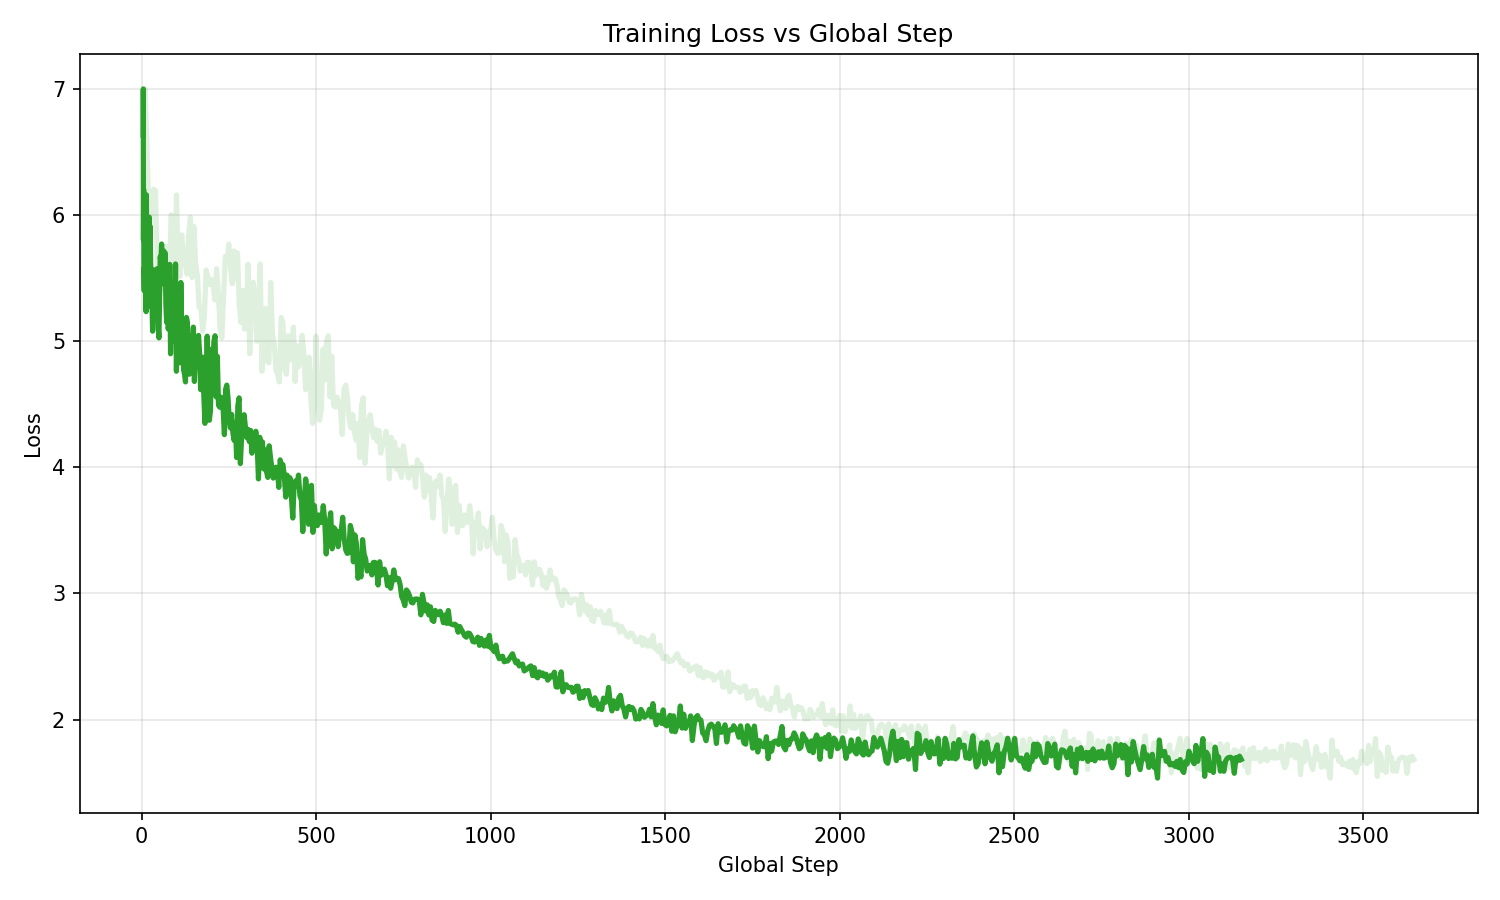
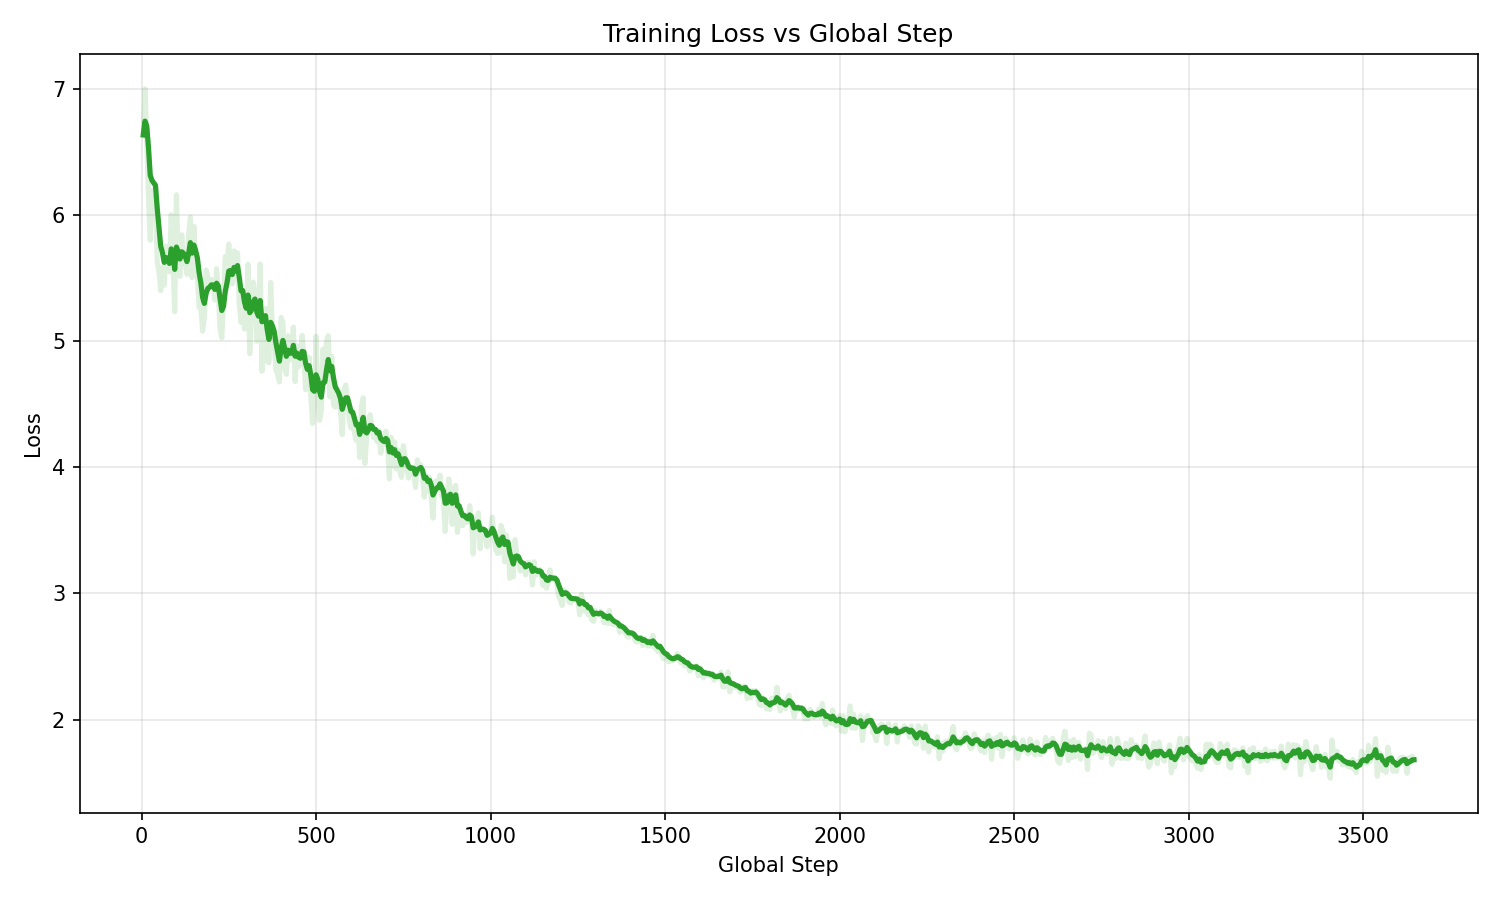
cleaningup more and adding rouge scores to sft eval

diff --git a/experiments/trainers/sft_eval.py b/experiments/trainers/sft_eval.py
@@ -1,6 +1,8 @@
 import torch
 import json
 import matplotlib.pyplot as plt
+from rouge_score import rouge_scorer
+
 
 from experiments.config import SFTConfigBase
 from experiments.datasets import TLDRFilteredDataPPO
@@ -15,48 +17,88 @@ class SFTEval(BaseTrainer):
         self.config = config
         self.device = torch.device("cuda" if torch.cuda.is_available() else "cpu")
 
-        # self.sft = (
-        #     HFModel_SFT.init_from_hf_pretrained(self.config).to(self.device).requires_grad_(False)
-        # )
-        # self.sft.set_from_local_state_dict(self.config.sft_model_path)
-        # self.gpt = (
-        #     HFModel_SFT.init_from_hf_pretrained(self.config).to(self.device).requires_grad_(False)
-        # )
+        self.sft = (
+            HFModel_SFT.init_from_hf_pretrained(self.config).to(self.device).requires_grad_(False)
+        )
+        self.sft.set_from_local_state_dict(self.config.sft_model_path)
+        self.gpt = (
+            HFModel_SFT.init_from_hf_pretrained(self.config).to(self.device).requires_grad_(False)
+        )
 
-        # self.sft.eval()
-        # self.gpt.eval()
+        self.sft.eval()
+        self.gpt.eval()
 
-        # self.data = TLDRFilteredDataPPO(
-        #     tokenizer=self.sft.tokenizer, batch_size=self.config.batch_size
-        # )
+        self.data = TLDRFilteredDataPPO(
+            tokenizer=self.sft.tokenizer, batch_size=self.config.batch_size
+        )
 
     def _to_device(self, batch):
         for k in batch.keys():
             if isinstance(batch[k], torch.Tensor):
                 batch[k] = batch[k].to(self.device)
         return batch
+    
+    def _format_batch_prompts_and_summaries(self, batch):
+        prompt_ids = []
+        reference_summary_ids = []
+        for subreddit, title, post, summary in zip(
+            batch["subreddit"], batch["title"], batch["post"], batch["summary"]
+        ):
+            formatted_query = self.data.get_query_text(subreddit, title, post)
+            prompt_ids.append(self.data.tokenizer.encode(formatted_query, return_tensors="pt").squeeze(0))
+            reference_summary_ids.append(self.data.tokenizer.encode(summary, return_tensors="pt").squeeze(0))
+
+        return prompt_ids, reference_summary_ids
 
     def evaluate(self):
+
+        scorer = rouge_scorer.RougeScorer(['rouge1', 'rouge2', 'rougeL'], use_stemmer=True)
+        rouge_total, rouge_count = 0, 0
+
         for _batch_idx, batch in enumerate(self.data.test_loader):
             with torch.no_grad():
                 batch = self._to_device(batch)
 
+                full_texts, query_texts, summary_texts = self.data.format_batch(batch)
+
+                # TODO:
+                # Move _format_batch_prompts_and_summaries to a eval utils or as part of dataset class
+                # Same with _trim_tensor
+                # Maybe put _trim_tensor in _format_batch_prompts_and_summaries
+                _full_texts, query_texts, ref_summary_texts = self.data.format_batch(batch)
+
+                inputs = self.data.tokenize_and_pad_left(query_texts, self.data.SFT_MAX_QUERY_LENGTH)
+
                 sft_gen_ids, _ = self.sft.generate(
-                    batch,
+                    inputs,
                     self.data.SFT_MAX_INPUT_LENGTH,
                     self.config.generation_temperature,
                 )
                 gpt_gen_ids, _ = self.gpt.generate(
-                    batch,
+                    inputs,
                     self.data.SFT_MAX_INPUT_LENGTH,
                     self.config.generation_temperature,
                 )
-            
+
+                sft_response_ids = sft_gen_ids[:, self.data.SFT_MAX_QUERY_LENGTH:]
+                gpt_response_ids = gpt_gen_ids[:, self.data.SFT_MAX_QUERY_LENGTH:]
+
+                sft_response_texts = self.data.tokenizer.decode(sft_response_ids)
+                gpt_response_texts = self.data.tokenizer.decode(gpt_response_ids)
+                
+                # Calculate rouge scores
+                for i, ref_text in enumerate(ref_summary_texts):
+                    
+                    scores = scorer.score(ref_text, sft_response_texts[i])
+                    pdb.set_trace()
+
+                
     
             full_gpt_text = self.data.tokenizer.decode(gpt_gen_ids[0]).split("TL;DR:")
             prompt, gpt_text = full_gpt_text[0], "".join(full_gpt_text[1:])
             full_sft_text = self.data.tokenizer.decode(sft_gen_ids[0]).split("TL;DR:")
             sft_text = "".join(full_sft_text[1:])
+
 
             print(f"Batch #{_batch_idx}\n")
             print(f"Prompt: {prompt}\n\n")
@@ -93,11 +135,11 @@ class SFTEval(BaseTrainer):
         # Plot
         plt.figure(figsize=(10, 6))
         plt.plot(steps, losses, alpha=0.15, color='#2ca02c', linewidth=2.5,)
-        plt.plot(steps, smooth(losses, weight=0.99), alpha=1.0, color='#2ca02c', linewidth=2.5, label="SFT")
-        plt.xlabel('Global Step')
-        plt.ylabel('Loss')
-        plt.title('Training Loss vs Global Step')
+        plt.plot(steps, smooth(losses, weight=0.7), alpha=1.0, color='#2ca02c', linewidth=2.5, label="SFT")
+        plt.xlabel('Step')
+        plt.ylabel('SFT Loss')
+        plt.title('SFT')
         plt.grid(True, alpha=0.3)
         plt.tight_layout()
-        plt.savefig('loss_curve.png', dpi=150)
+        plt.savefig('sft_loss_curve.png', dpi=150)
         plt.show()

diff --git a/experiments/datasets.py b/experiments/datasets.py
@@ -99,6 +99,59 @@ class TLDRFilteredDataBase(ABC):
             tokens = tokenizer(test_query, return_tensors="pt")
 
         return post
+    
+        
+    def format_batch(self, batch, tokenizer=None):
+        tokenizer = tokenizer or self.tokenizer
+
+        full_texts = []
+        query_texts = []
+        summary_texts = []
+
+        for subreddit, title, post, summary in zip(
+            batch["subreddit"], batch["title"], batch["post"], batch["summary"]
+        ):
+            formatted_query = self.get_query_text(subreddit, title, post, tokenizer)
+            query_texts.append(formatted_query)
+
+            summary_texts.append()
+            # Detail 3 (Prepend a leading space to completion; append an EOS token to the completions)
+            summary = " " + summary + tokenizer.eos_token
+
+            full_text = formatted_query + summary
+            full_texts.append(full_text)
+        
+        return full_texts, query_texts, summary_texts
+    
+    def tokenize_and_pad_left(self, texts, max_length, tokenizer=None):
+        tokenizer = tokenizer or self.tokenizer
+        # Pad Left
+        original_padding_side = tokenizer.padding_side
+        tokenizer.padding_side = "left"
+        inputs = tokenizer(
+            texts,
+            truncation=False,  # Already did ~clever truncation~
+            padding="max_length",  # Should use tokenizer.pad_token_id
+            max_length=max_length,
+            return_tensors="pt",
+        )
+
+        # Reset original padding
+        tokenizer.padding_side = original_padding_side
+        return inputs
+    
+    def tokenize_and_pad_right(self, texts, max_length, tokenizer=None):
+        tokenizer = tokenizer or self.tokenizer
+
+        return tokenizer(
+            texts,
+            truncation=False,  # Already did ~clever truncation~
+            padding="max_length",  # This should use tokenizer.pad_token_id
+            max_length=max_length,
+            return_tensors="pt",
+        )
+    
+    
 
 
 class TLDRFilteredDataSFT(TLDRFilteredDataBase):
@@ -110,6 +163,8 @@ class TLDRFilteredDataSFT(TLDRFilteredDataBase):
         tokenizer = tokenizer or self.tokenizer
         #  Detail 1 (Dataset -> Specification)
         texts = []
+
+        #TODO: replace with abstracted helper functions
 
         for subreddit, title, post, summary in zip(
             batch["subreddit"], batch["title"], batch["post"], batch["summary"]
@@ -135,6 +190,8 @@ class TLDRFilteredDataSFT(TLDRFilteredDataBase):
         )
         
         return data_dict
+
+
         
 
 
